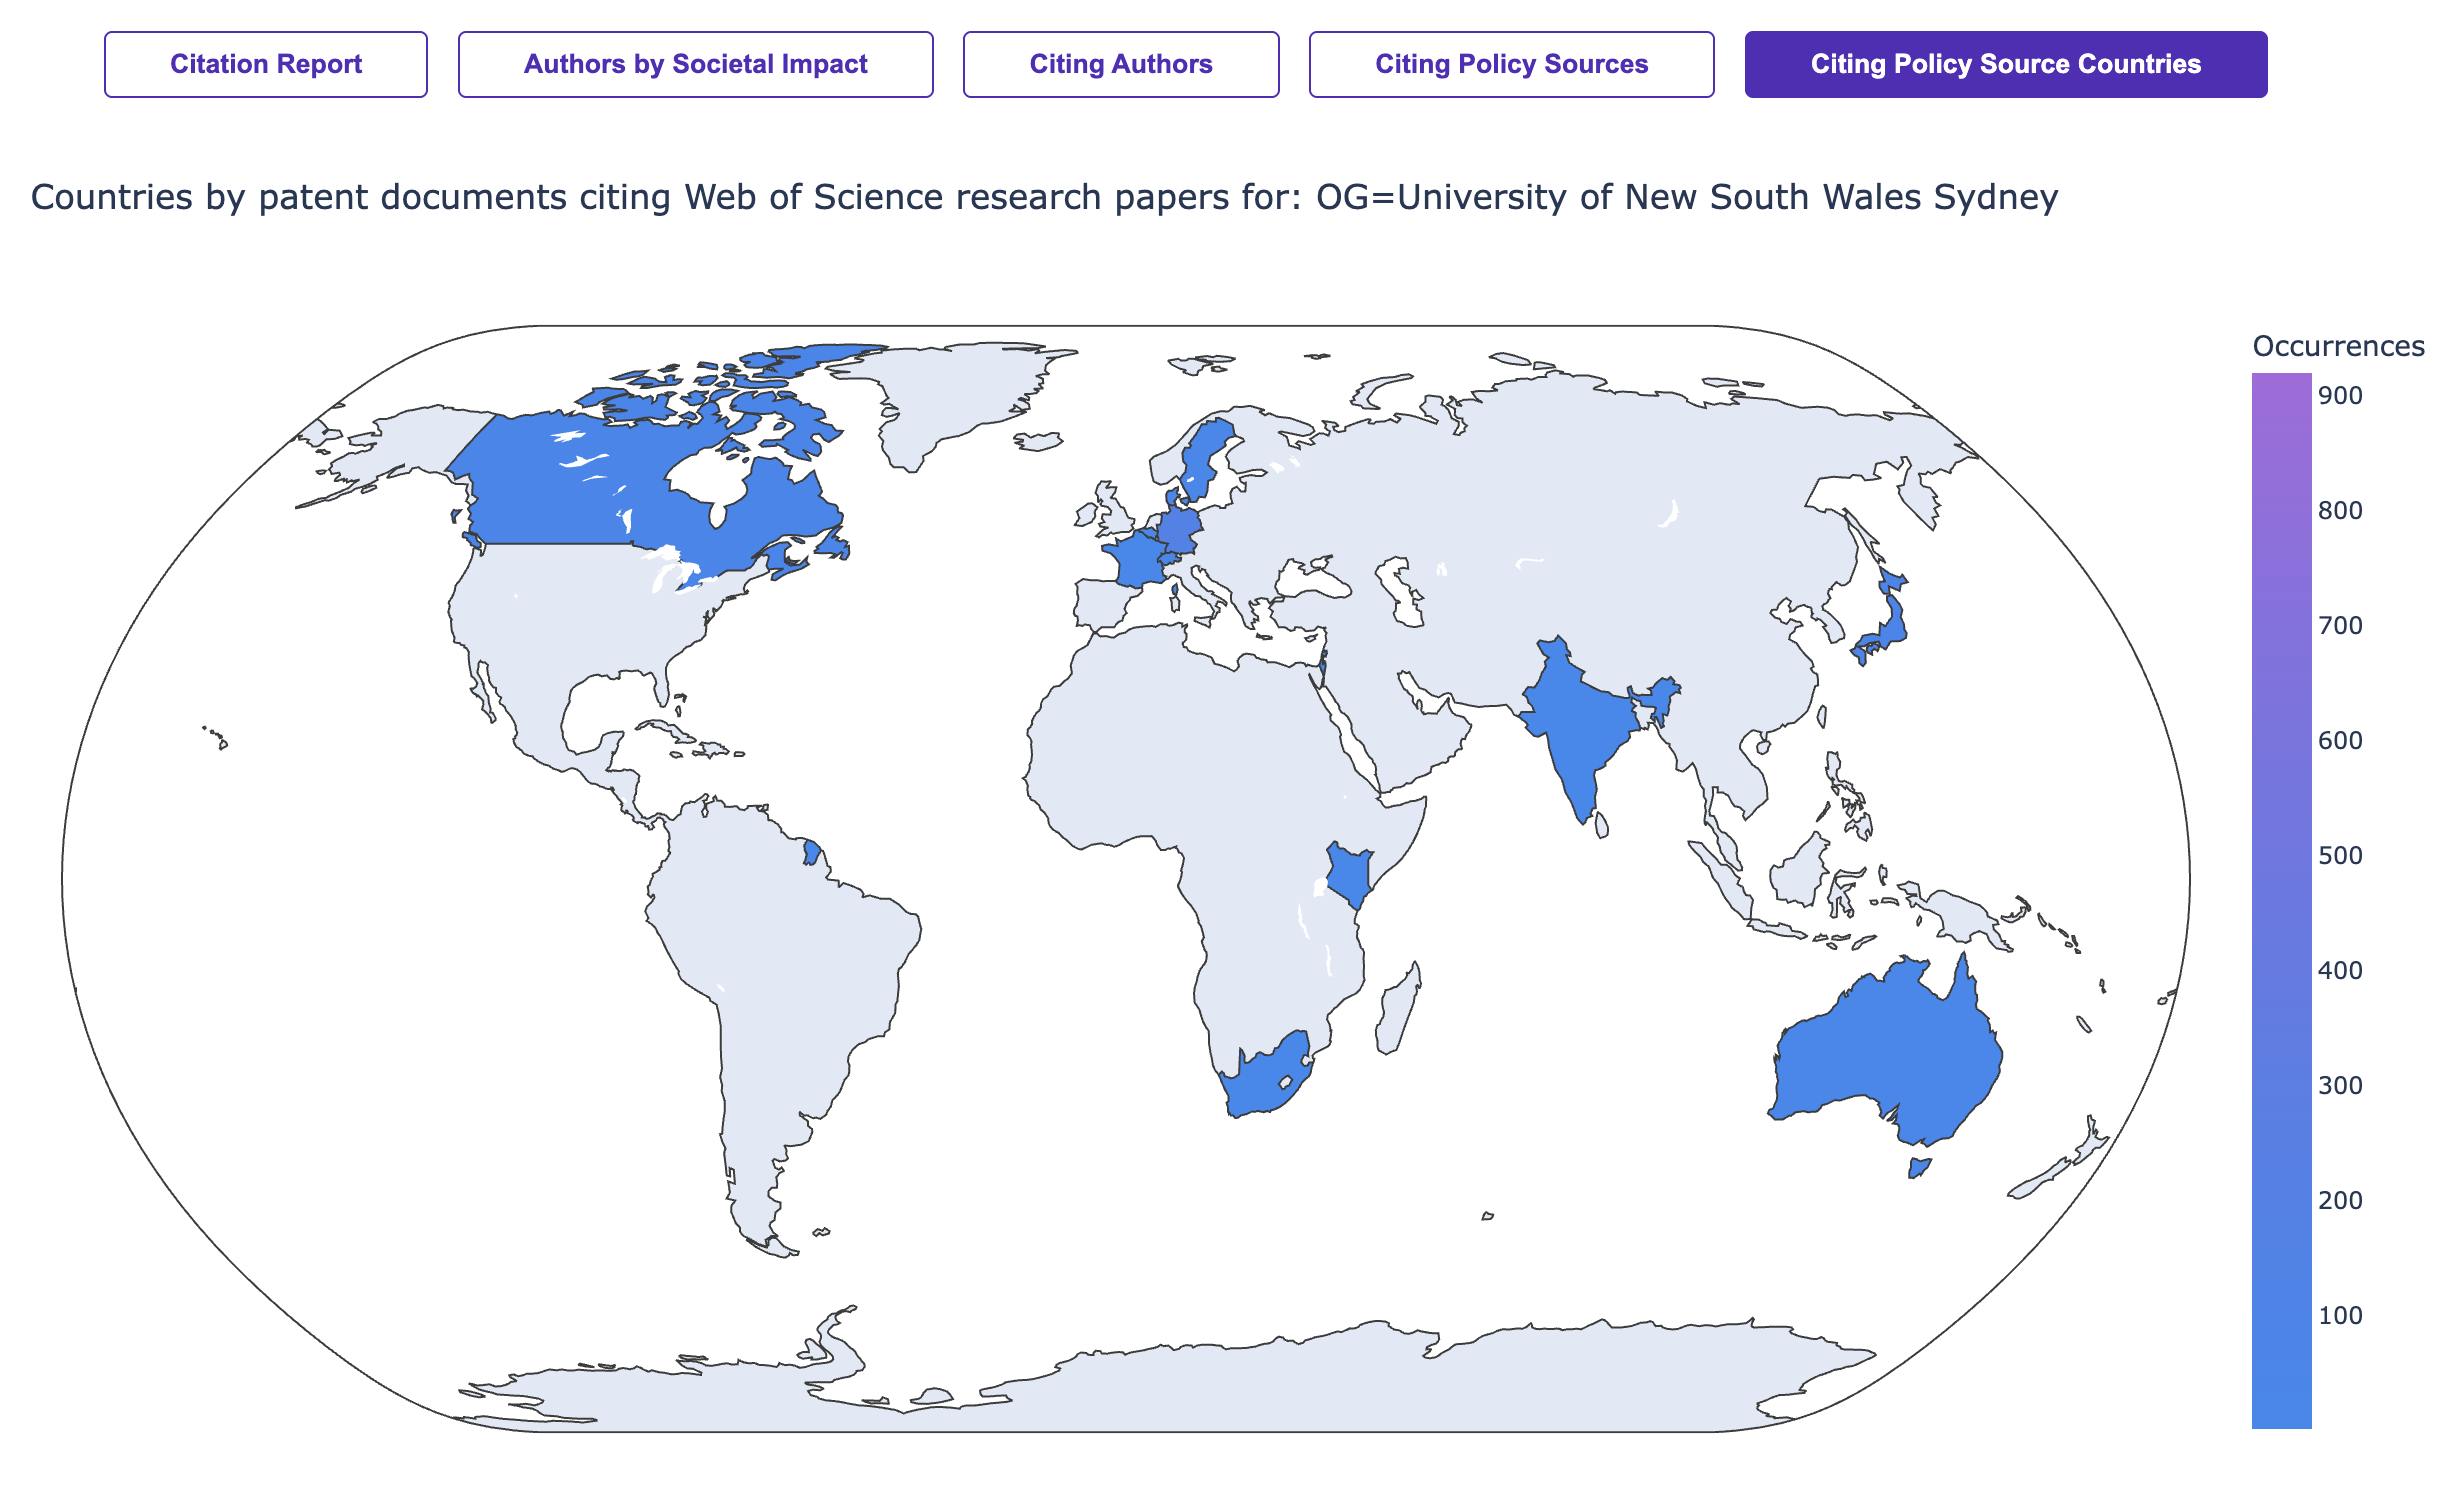
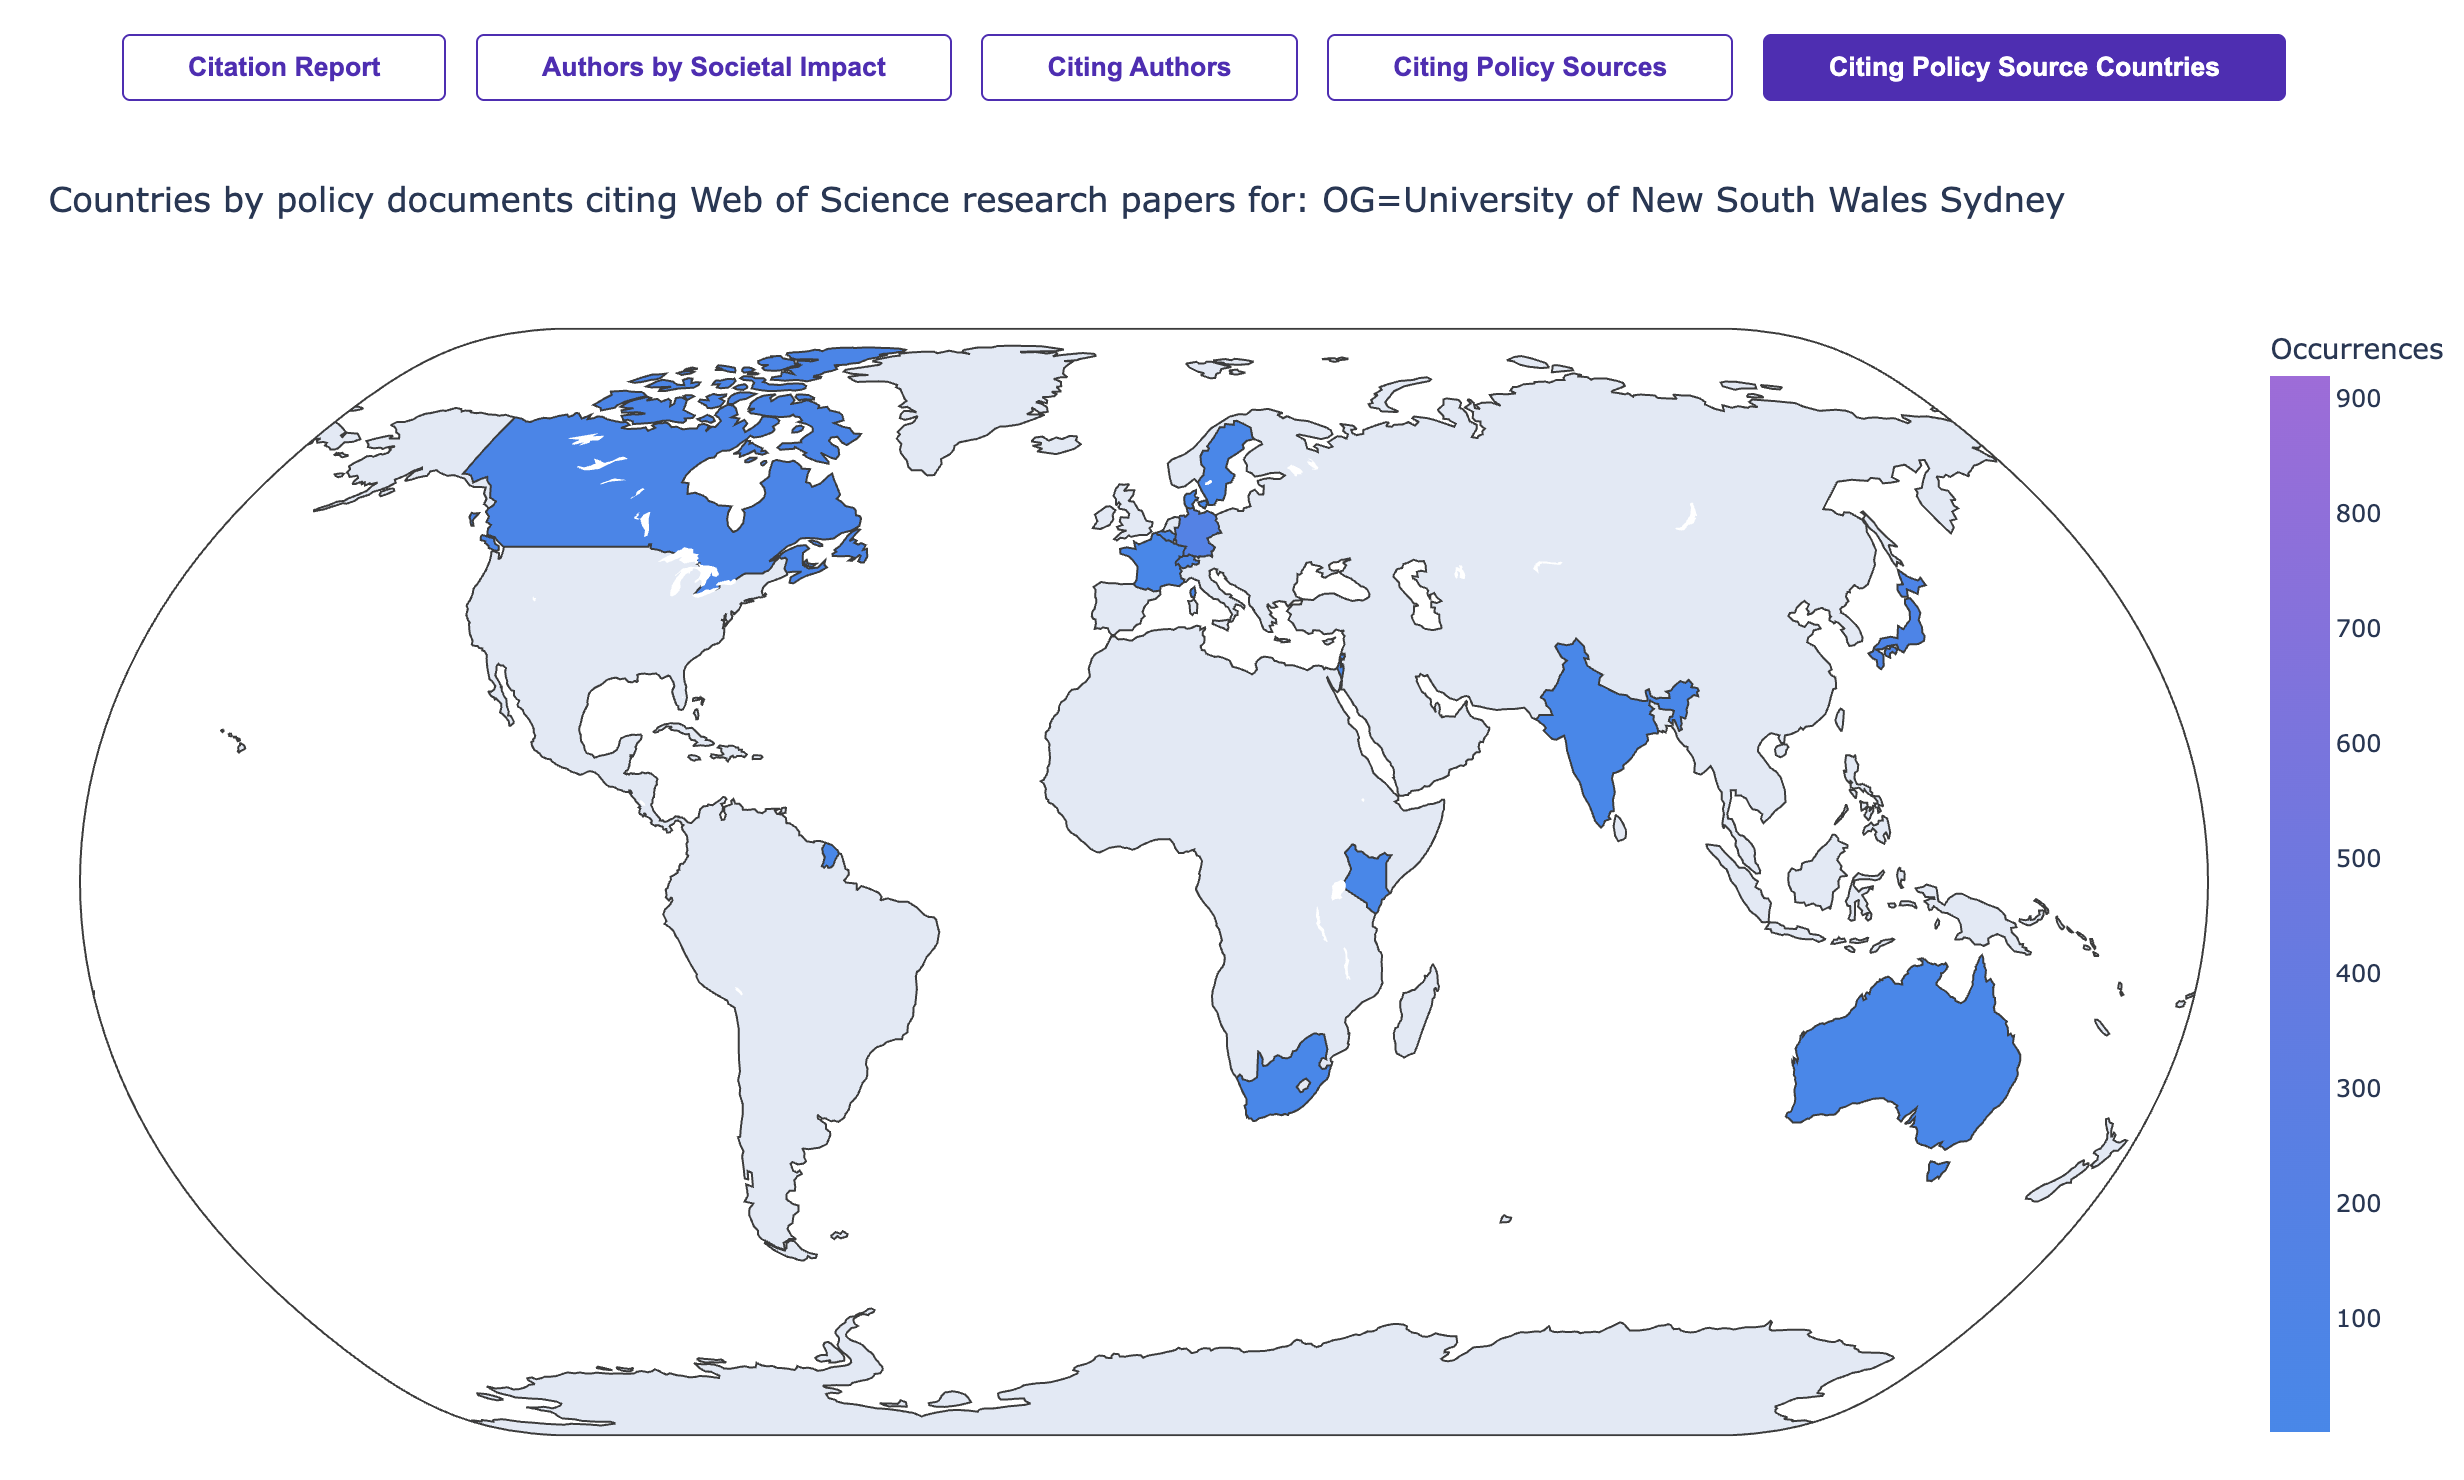
Minor bug fixes

diff --git a/python/societal_impact_analytics/visualizations.py b/python/societal_impact_analytics/visualizations.py
@@ -138,7 +138,7 @@ def visualize_citation_report(df: pd.DataFrame, df2: pd.DataFrame, query: str) -
         '</li>'
         '<li class="metric__box">'
         '<p class="metric__annotation">Average Policy Citations Per Item:</p>'
-        f'<p class="metric__value">{citing_policy_documents / wos_documents:.2f}</p>'
+        f'<p class="metric__value">{citations_from_policy_docs / wos_documents:.2f}</p>'
         '</li>'
         '</ul>'
         f'{offline.plot(fig, output_type='div')}'
@@ -307,7 +307,7 @@ def visualize_citing_source_countries(df: pd.DataFrame, query: str) -> str:
         occurrences['source_country'].map(mapping).dropna()
     )
 
-    title = (f'Countries by patent documents citing Web of Science '
+    title = (f'Countries by policy documents citing Web of Science '
              f'research papers for: {query}')
 
     fig = px.choropleth(
